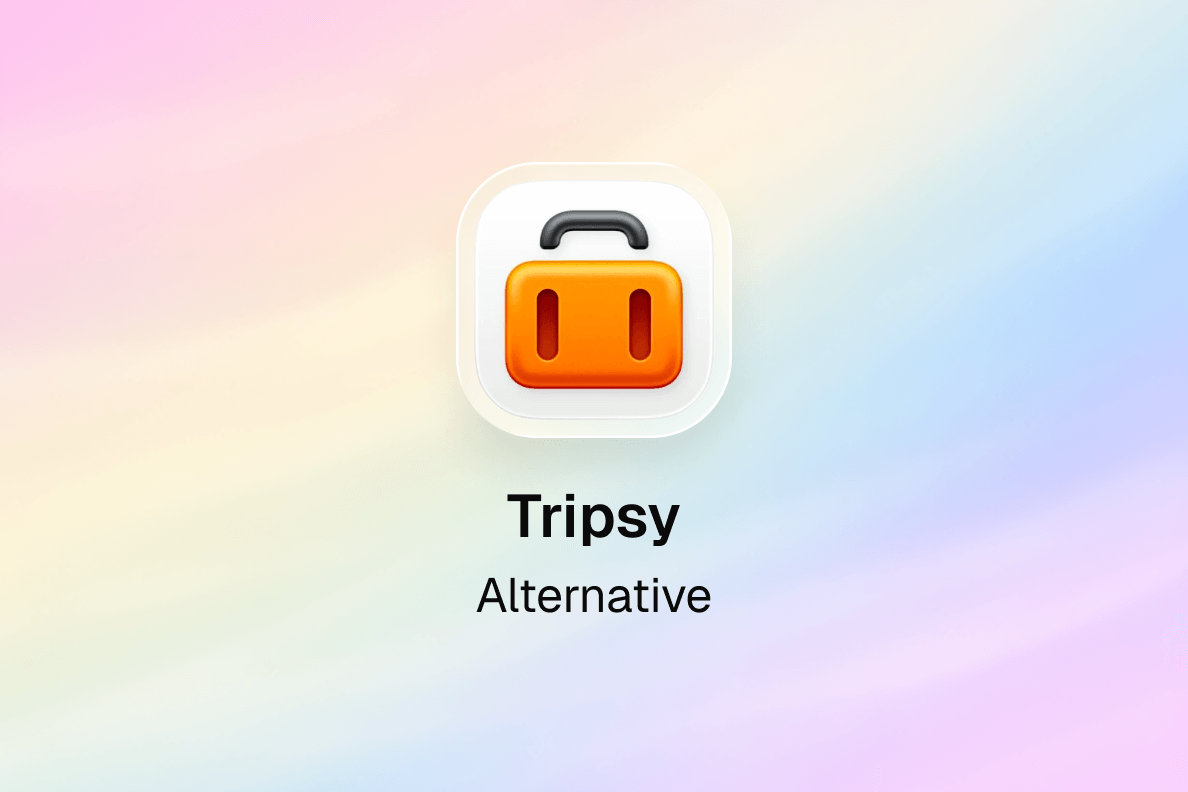
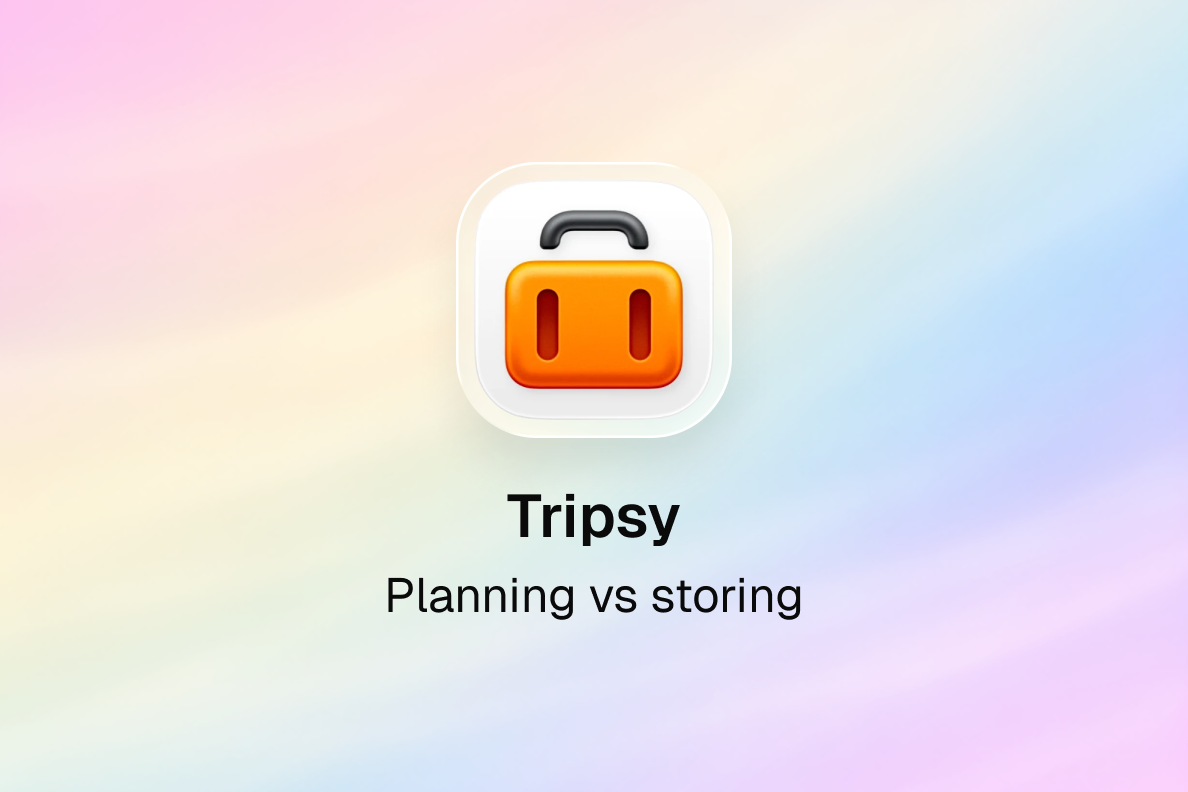
refactor: rewrite best travel apps article with honest assessments
Complete rewrite with real arguments:

- New title: "The only travel apps you actually need (and which to skip)"
- Organized by travel phase, not random list
- Planning: Wanderlog (honest: doesn't store tickets)
- Booking: Google Flights (skip Hopper/Kayak for booking)
- Document storage: Folio (the "where's my ticket" problem)
- Flight tracking: Flighty (honest: $50/year, only for frequent flyers)

Added "What to skip" section:
- TripAdvisor (Google Maps is better now)
- All-in-one apps (do everything poorly)
- Hotel booking apps (websites are fine)

Conclusion: you need 4-5 apps, not 20

Added: Folio screens image showing timeline, bus ticket, event ticket

Changed region(s): [[0.3114, 0.7273, 0.6852, 0.7879]]

diff --git a/src/pages/BestAppsToPlanTravelArticlePage.tsx b/src/pages/BestAppsToPlanTravelArticlePage.tsx
@@ -1,51 +1,83 @@
-import { BlogArticleLayout, ArticleH2, ArticleParagraph } from '../components/ui'
+import { BlogArticleLayout, ArticleH2, ArticleParagraph, ArticleImage } from '../components/ui'
 import { Link } from 'react-router-dom'
+import folioScreensImage from '../assets/images/blog-best-apps-folio-screens.png'
 
 export default function BestAppsToPlanTravelArticlePage() {
   return (
     <BlogArticleLayout
-      title="Best apps to plan travel: 2025 guide"
-      description="Planning a trip can be both exciting and stressful. These apps will save you time, money, and a lot of headaches."
+      title="The only travel apps you actually need (and which to skip)"
+      description="Most travel app lists include 20 apps you'll never use. Here are the ones that solve real problems, organized by when you need them."
       date="Jul 29, 2025"
       category="Research"
       slug="best-apps-to-plan-travel"
     >
       <ArticleParagraph>
-        Planning a trip can feel overwhelming. Between booking flights, finding the best hotels, and organizing activities, things can quickly get complicated. The right apps can take the stress out of the process. They help you focus on what matters: enjoying the journey.
+        Search "best travel apps" and you'll find lists with 20+ recommendations. Download them all, use maybe two, delete the rest after your trip. The truth is you need 4-5 apps maximum, each solving one specific problem well. Here's what actually matters, organized by when you need it.
       </ArticleParagraph>
 
-      <ArticleH2>The best apps to plan your trip</ArticleH2>
+      <ArticleH2>For planning what to do: Wanderlog</ArticleH2>
 
       <ArticleParagraph>
-        <strong>Wanderlog</strong> is like your best friend who's super organized but also loves adventure. It's an itinerary planner that lets you collaborate with friends and even track your budget. You can plan everything from flights to daily activities in one place. The map view is a lifesaver when you're trying to maximize your time. Best for group trips or anyone who loves having all their plans in one place.
-      </ArticleParagraph>
-
-      <ArticleParagraph>
-        <strong><Link to="/#get-the-app" className="underline hover:text-[#0a0a0a] transition-colors">Folio Wallet</Link></strong> is a free travel planner that builds your trip timeline in seconds. Upload images, PDFs, or simply forward a confirmation email. Your itinerary appears at a glance. You can also store documents like passports, IDs, and medical cards. All encrypted for your safety. Imagine arriving at the airport with all your trip details in one place. No app switching. No digging through emails. Best for travelers who like everything neatly organized.
+        <strong>Wanderlog</strong> is the best free trip planner. Add destinations, restaurants, activities. See everything on a map to optimize your days. Share with travel companions who can add their own ideas. Track your budget as you plan.
       </ArticleParagraph>
 
       <ArticleParagraph>
-        <strong>TripIt</strong> is the OG of travel planning apps. Just forward your confirmation emails. Flights, hotels, rental cars. It creates a neat, master itinerary for you. You don't have to lift a finger after forwarding your emails. It even syncs with your calendar so you'll never forget check-in times. Best for busy travelers who want everything automated.
+        The limitation: Wanderlog is great for deciding what to do, but doesn't solve the "where's my boarding pass" problem. You still need somewhere to store the actual tickets once you book.
+      </ArticleParagraph>
+
+      <ArticleH2>For finding deals: Google Flights</ArticleH2>
+
+      <ArticleParagraph>
+        <strong>Google Flights</strong> is unbeatable for flight search. The flexible dates calendar shows you the cheapest days to fly at a glance. Price tracking alerts you when fares drop. The "explore" feature shows where you can go within your budget.
       </ArticleParagraph>
 
       <ArticleParagraph>
-        <strong>Kayak</strong> is more than just a travel booking app. It's a travel organizer that helps you find the best deals on flights, hotels, and car rentals. The price alerts feature is amazing for scoring discounts. It also shows you flexible date options to help you save even more. Best for budget-conscious travelers who want a one-stop-shop for booking and planning.
+        Skip the dedicated booking apps like Hopper or Kayak for actual booking. They rarely beat Google Flights on price, and their "price predictions" are marketing more than science. Use Google Flights to find the best option, then book directly with the airline.
+      </ArticleParagraph>
+
+      <ArticleH2>For storing tickets and documents: Folio</ArticleH2>
+
+      <ArticleParagraph>
+        <strong><Link to="/#get-the-app" className="underline hover:text-[#737373] transition-colors">Folio</Link></strong> solves the most common travel frustration: finding your tickets when you need them. Forward confirmation emails, import PDFs, photograph paper tickets. Folio extracts dates, times, locations and creates a timeline automatically.
       </ArticleParagraph>
 
       <ArticleParagraph>
-        <strong>TripAdvisor</strong> has been the go-to app for travel reviews for years. But it's also a handy tool for planning your trip. You can read reviews, book hotels, and even find great restaurants near you. Honest reviews from real travelers make it easier to avoid tourist traps. Best for anyone who values traveler feedback when planning their itinerary.
+        At the gate, your boarding pass is one tap away. At the hotel, the confirmation is right there. The bus ticket barcode, the concert QR code, everything works offline. For group trips, shared folders mean everyone has access to the same documents.
+      </ArticleParagraph>
+
+      <ArticleImage
+        src={folioScreensImage}
+        alt="Folio app showing trip timeline, bus ticket with barcode, and event ticket with QR code"
+      />
+
+      <ArticleH2>For flight tracking: Flighty (maybe)</ArticleH2>
+
+      <ArticleParagraph>
+        <strong>Flighty</strong> is genuinely impressive. It shows where your inbound aircraft is, predicts delays before airlines announce them, tracks gate changes in real-time. The interface is beautiful and the data is faster than most airline apps.
       </ArticleParagraph>
 
       <ArticleParagraph>
-        If you're hitting the open road, <strong>Roadtrippers</strong> is a must. It helps you map out your route and discover unique stops. Scenic viewpoints. Quirky attractions. Hidden diners. It's perfect for road trips with multiple stops. You'll never miss the world's largest ball of yarn again. Best for road warriors who want to make the journey as memorable as the destination.
+        The honest assessment: it costs $50/year. If you fly 10+ times a year, the early delay warnings are worth it. If you fly twice a year, just use your airline's app. It's free and good enough for occasional travelers.
+      </ArticleParagraph>
+
+      <ArticleH2>What to skip</ArticleH2>
+
+      <ArticleParagraph>
+        <strong>TripAdvisor</strong> was essential a decade ago. Now Google Maps has reviews, photos, and ratings for almost everything. You don't need a separate app.
       </ArticleParagraph>
 
       <ArticleParagraph>
-        <strong>Flighty</strong> is a powerful flight tracker built for frequent flyers. It gives you real-time updates, delay predictions, gate changes, and even shows where your incoming aircraft is. Flighty pulls data from FAA, FlightAware, and airline sources to provide incredibly fast alerts. The sleek interface also tracks your flight history over time. Best for business travelers and frequent flyers who want early warnings and detailed insight into every leg of their journey.
+        <strong>All-in-one travel apps</strong> that promise to handle planning, booking, documents, and tracking. They do everything adequately and nothing well. Better to use specialized apps that excel at one thing.
       </ArticleParagraph>
 
       <ArticleParagraph>
-        The best app to plan travel depends on your style. Need an instant timetable that shows all details at once? Folio Wallet is your best friend. Planning a road trip? Roadtrippers have your back. Want to save on bookings? Kayak is unbeatable. Traveling is supposed to be fun, not stressful. With these apps, you can plan your vacation, keep your documents safe, and discover amazing places along the way. Whether you're a frequent flyer, a road tripper, or someone who just loves a good adventure, there's an app here for you.
+        <strong>Most hotel booking apps.</strong> Booking.com and Hotels.com have apps, but their websites work fine. You'll book hotels maybe twice for a trip. The websites are better for comparing options anyway.
+      </ArticleParagraph>
+
+      <ArticleH2>The minimal setup</ArticleH2>
+
+      <ArticleParagraph>
+        For most trips: Wanderlog to plan, Google Flights to find deals, Folio to store your tickets, your airline's app for check-in. Four apps. That's it. Add Flighty if you're a frequent flyer, Google Maps for navigation. You don't need 20 apps. You need the right 4-5 that actually solve problems you have.
       </ArticleParagraph>
     </BlogArticleLayout>
   )

diff --git a/src/data/blogArticles.ts b/src/data/blogArticles.ts
@@ -412,8 +412,8 @@ export const blogArticles: BlogArticle[] = sortArticlesByDate([
   {
     category: 'Research',
     date: 'Jul 29, 2025',
-    title: 'Best apps to plan travel: 2025 guide',
-    description: 'Planning a trip can be both exciting and stressful. These apps will save you time, money, and a lot of headaches.',
+    title: 'The only travel apps you actually need (and which to skip)',
+    description: "Most travel app lists include 20 apps you'll never use. Here are the ones that solve real problems.",
     slug: 'best-apps-to-plan-travel',
     image: blogBestAppsToPlanTravel,
   },
